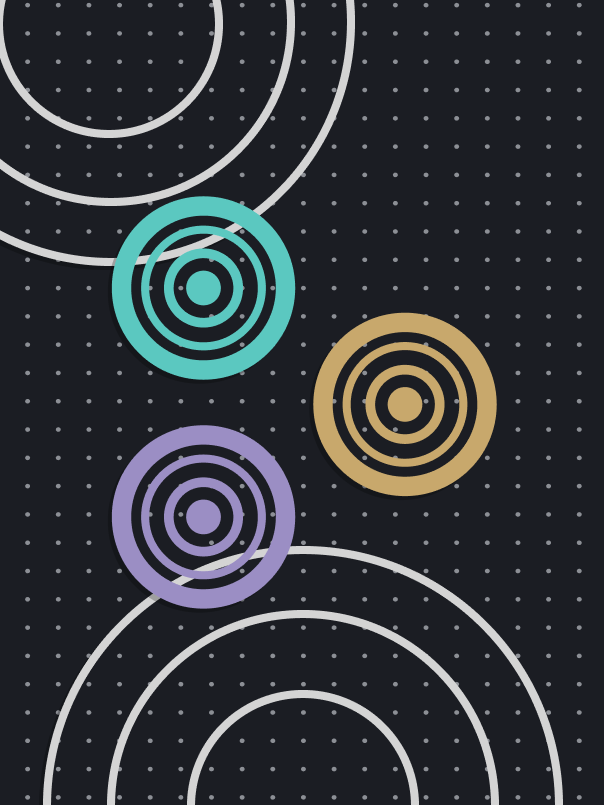
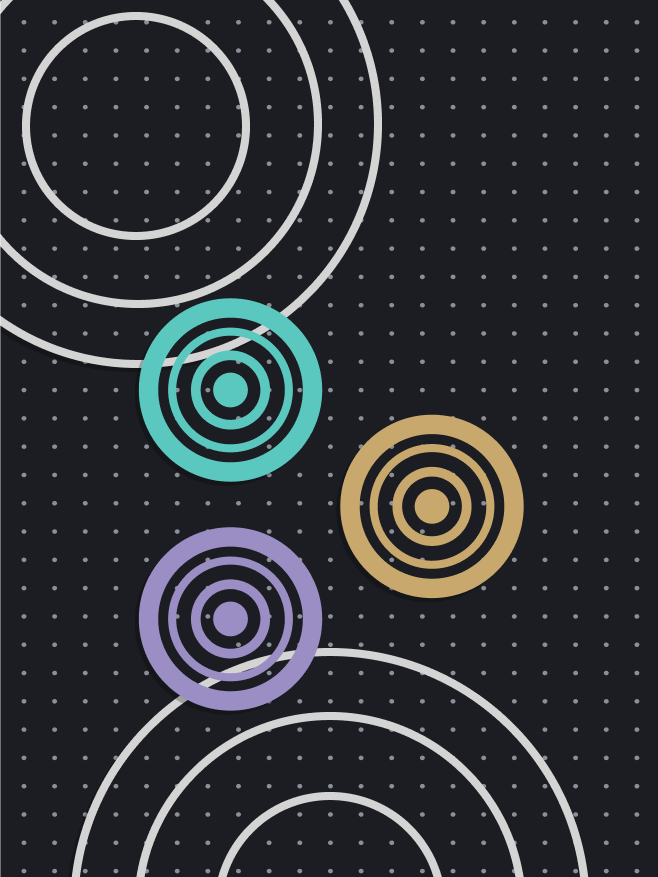
V2.3 detection zone, bigger labels, remove NEW label, delay before contact drawer

Changed region(s): [[0.0, 0.0, 0.9536, 1.0]]

diff --git a/hello/bundle.js b/hello/bundle.js
@@ -1,1 +1,1 @@
-(()=>{var e={574(e,a,t){const d=()=>{XR8.XrController.configure({imageTargetData:[t(478),t(664)]})};window.XR8?d():window.addEventListener("xrloaded",d)},664(e){"use strict";e.exports=JSON.parse('{"type":"PLANAR","properties":{"top":102,"left":27,"width":604,"height":805,"isRotated":true,"originalWidth":658,"originalHeight":1010},"imagePath":"image-targets/ARCard_VERSO_luminance.png","metadata":null,"name":"ARCard_VERSO","resources":{"originalImage":"ARCard_VERSO_original.png","croppedImage":"ARCard_VERSO_cropped.png","thumbnailImage":"ARCard_VERSO_thumbnail.png","luminanceImage":"ARCard_VERSO_luminance.png"},"created":1791211542279,"updated":1791211712874}')},478(e){"use strict";e.exports=JSON.parse('{"type":"PLANAR","properties":{"top":301,"left":64,"width":961,"height":1281,"isRotated":true,"originalWidth":1080,"originalHeight":1920},"imagePath":"image-targets/ImageTarget_testcard_luminance.png","metadata":null,"name":"ImageTarget_testcard","resources":{"originalImage":"ImageTarget_testcard_original.png","croppedImage":"ImageTarget_testcard_cropped.png","thumbnailImage":"ImageTarget_testcard_thumbnail.png","luminanceImage":"ImageTarget_testcard_luminance.png"},"created":1789055611617,"updated":1789055692241}')}},a={};function t(d){var o=a[d];if(void 0!==o)return o.exports;var n=a[d]={exports:{}};return e[d](n,n.exports,t),n.exports}(()=>{"use strict";t(574);const e=window.ecs,a=new Set,d=new Set;let o=!1;const n=e=>{o||d.has(e)||(d.add(e),console.log(`[platform-progress] ${d.size}/${a.size}`),d.size<a.size||(o=!0,window.dispatchEvent(new CustomEvent("ar-all-platforms-revealed"))))},r=(a,t)=>e.GltfModel.has(a,t)&&!!e.GltfModel.get(a,t).animationClip;e.registerComponent({name:"disc-reveal",schema:{},add:(t,d)=>{const o=d.eid;console.log("[disc-reveal] initialized, eid:",o),(e=>{a.add(e)})(o);for(const a of t.getChildren(o))t.getEntity(a).hide(),r(t,a)&&e.GltfModel.mutate(t,a,e=>{e.paused=!0,e.time=0});let i=!1;t.events.addListener(o,e.input.SCREEN_TOUCH_START,()=>{if(!i){i=!0,console.log("[disc-reveal] tap on disc! showing children...");for(const a of t.getChildren(o))t.getEntity(a).show(),r(t,a)&&(console.log("[disc-reveal] playing animation on",a),e.GltfModel.mutate(t,a,e=>{e.time=0,e.paused=!1}));n(o)}})}});let i=!1;e.registerBehavior(a=>{if(i)return;i=!0;const t=e=>a=>{console.log(`[target-events] ${e}`,a?.data?.name),window.dispatchEvent(new CustomEvent(e,{detail:a?.data?.name}))};a.events.addListener(a.events.globalId,e.events.REALITY_IMAGE_FOUND,t("ar-image-found")),a.events.addListener(a.events.globalId,e.events.REALITY_IMAGE_LOST,t("ar-image-lost"))});const c=JSON.parse('{"objects":{"47699d9e-18a5-4f88-a4f9-b8be92e8f74a":{"components":{},"geometry":null,"id":"47699d9e-18a5-4f88-a4f9-b8be92e8f74a","light":{"type":"ambient","intensity":1},"material":null,"name":"Ambient Light","position":[10,5,5],"rotation":[0,0,0,1],"scale":[1,1,1],"parentId":"88453035-dc0f-486d-868a-8ff7c2fda864","order":0.4038940050501252},"a608ddd9-9379-464d-966f-5d8d8674c83c":{"camera":{"type":"perspective","xr":{"desktop":"disabled","xrCameraType":"world","headset":"disabled","phone":"AR","world":{"disableWorldTracking":false}}},"components":{},"geometry":null,"id":"a608ddd9-9379-464d-966f-5d8d8674c83c","material":null,"name":"Camera","position":[0,0.9018198838289004,0.741421885372211],"rotation":[0.00044368872331410124,0.9659425615285845,-0.25875089860082223,0.0016563336561801576],"scale":[1,1,1],"parentId":"88453035-dc0f-486d-868a-8ff7c2fda864","order":1.0308214152219775},"ac1989e3-3b71-49e2-a05f-e682aeb18c36":{"components":{},"geometry":null,"id":"ac1989e3-3b71-49e2-a05f-e682aeb18c36","light":{"intensity":1,"type":"spot"},"material":null,"name":"Directional Light","position":[20,50,10],"rotation":[0,0,0,1],"scale":[1,1,1],"parentId":"88453035-dc0f-486d-868a-8ff7c2fda864","order":0.6644431107322474,"disabled":true},"1e91f161-0d44-46aa-9293-a99c9fda4cfc":{"id":"1e91f161-0d44-46aa-9293-a99c9fda4cfc","position":[0,0,0],"rotation":[-4.329780281177466e-17,-0.7071067811865476,-0.7071067811865475,4.329780281177467e-17],"scale":[1,1,1],"geometry":null,"material":null,"parentId":"88453035-dc0f-486d-868a-8ff7c2fda864","components":{},"name":"Cible d\'image - 3DPrint","imageTarget":{"name":"ImageTarget_testcard"},"order":2.139191317678198,"hidden":false},"4e882f92-0a55-4250-a554-bdc9d028fc68":{"id":"4e882f92-0a55-4250-a554-bdc9d028fc68","position":[2.5739045355386666e-17,0.1,0.01],"rotation":[0.7071064131106127,-0.0007214830860009518,-0.0007214830860009522,0.7071064131106128],"scale":[0.2,0.2,0.2],"geometry":{"type":"cylinder","radius":0.5,"height":0.1},"material":{"type":"basic","color":"#1b1d23","opacity":0.8,"textureFiltering":"smooth","wireframe":false,"forceTransparent":true},"parentId":"b3f82157-f0da-41bf-ac67-f4bf3baba688","components":{"afa9b0a0-345d-418d-949d-bfbceaa96d0b":{"id":"afa9b0a0-345d-418d-949d-bfbceaa96d0b","name":"disc-reveal"}},"name":"Trigger (1)","order":1.4353339455249472,"hidden":false},"fc3fc9c0-f57e-41b2-9dac-1f4b7624e730":{"id":"fc3fc9c0-f57e-41b2-9dac-1f4b7624e730","position":[0.11,-0.1,0.01],"rotation":[0.7071064131106127,-0.0007214830860009519,-0.0007214830860009521,0.7071064131106128],"scale":[0.2,0.2,0.2],"geometry":{"type":"cylinder","radius":0.5,"height":0.1},"material":{"type":"basic","color":"#1b1d23","opacity":0.8,"textureFiltering":"smooth","wireframe":false,"forceTransparent":true},"components":{"da07d809-ab1e-4e86-ae96-ef33dfc8a491":{"id":"da07d809-ab1e-4e86-ae96-ef33dfc8a491","name":"disc-reveal"}},"name":"Trigger (2)","order":1.467188959197176,"parentId":"b3f82157-f0da-41bf-ac67-f4bf3baba688","hidden":false},"9c71edb4-7bd2-4942-8296-321c42876638":{"id":"9c71edb4-7bd2-4942-8296-321c42876638","position":[-0.11,-0.1,0.01],"rotation":[0.7071064131106127,-0.0007214830860009519,-0.0007214830860009521,0.7071064131106128],"scale":[0.2,0.2,0.2],"geometry":{"type":"cylinder","radius":0.5,"height":0.1},"material":{"type":"basic","color":"#1b1d23","opacity":0.8,"textureFiltering":"smooth","wireframe":false,"forceTransparent":true},"components":{"dc609c84-8091-415e-a3cf-2af6a70112c2":{"id":"dc609c84-8091-415e-a3cf-2af6a70112c2","name":"disc-reveal"}},"name":"Trigger (3)","order":1.4990439728694045,"parentId":"b3f82157-f0da-41bf-ac67-f4bf3baba688"},"4612ef91-a58b-46df-8c86-804473df6b57":{"id":"4612ef91-a58b-46df-8c86-804473df6b57","position":[-6.505213034913027e-19,1.3049827036510977,-1.1102230246251565e-16],"rotation":[-0.7071064131106127,0.0007214830860009518,0.0007214830860009522,0.7071064131106128],"scale":[1,1,0.9999999999999998],"geometry":null,"material":null,"parentId":"4e882f92-0a55-4250-a554-bdc9d028fc68","components":{},"ui":{"background":"#000000","backgroundOpacity":0.5,"width":100,"height":25,"text":"Atelier Vision & Acculturation","color":"#c8a86c","fontSize":8,"type":"3d","font":{"type":"font","font":"Futura"},"verticalTextAlign":"center","borderRadius":5},"name":"Label","order":1.37162391818049,"hidden":false},"cf2ccdf3-25dc-4d7c-97e2-46d6871c7f46":{"id":"cf2ccdf3-25dc-4d7c-97e2-46d6871c7f46","position":[0,1.3049827036510977,-2.220446049250313e-16],"rotation":[-0.7071064131106127,0.0007214830860009518,0.0007214830860009522,0.7071064131106128],"scale":[1,1,0.9999999999999998],"geometry":null,"material":null,"parentId":"9c71edb4-7bd2-4942-8296-321c42876638","components":{},"ui":{"background":"#000000","backgroundOpacity":0.5,"width":100,"height":25,"text":"Prototypage & Developpement","color":"#5bc8c0","fontSize":8,"type":"3d","font":{"type":"font","font":"Futura"},"verticalTextAlign":"center","borderRadius":5},"name":"Label","order":1.339768904508261,"hidden":false},"e05ebec9-e43a-43bc-9f27-f5a3d796dede":{"id":"e05ebec9-e43a-43bc-9f27-f5a3d796dede","position":[0,1.3049827036510977,-1.1102230246251565e-16],"rotation":[-0.7071064131106127,0.0007214830860009518,0.0007214830860009522,0.7071064131106128],"scale":[1,1,0.9999999999999998],"geometry":null,"material":null,"parentId":"fc3fc9c0-f57e-41b2-9dac-1f4b7624e730","components":{},"ui":{"background":"#000000","backgroundOpacity":0.5,"width":100,"height":25,"text":"Direction de Projet Innovation","color":"#9b8ec4","fontSize":8,"type":"3d","font":{"type":"font","font":"Futura"},"verticalTextAlign":"center","borderRadius":5},"name":"Label","order":1.4034789318527185,"hidden":false},"ae7270a2-51af-4bb4-9383-0168b21f7a7a":{"id":"ae7270a2-51af-4bb4-9383-0168b21f7a7a","position":[0,0,0],"rotation":[0,0,0,1],"scale":[1,1,1],"geometry":null,"material":null,"parentId":"88453035-dc0f-486d-868a-8ff7c2fda864","components":{},"ui":{"width":100,"height":100,"text":"V2.2 - Labels repositioned","color":"#ffffff","fontSize":12,"type":"overlay"},"name":"Version#","order":3.733576123742947,"hidden":false},"08453781-f911-48a4-9f50-e968d7f330b0":{"id":"08453781-f911-48a4-9f50-e968d7f330b0","position":[0,0,0],"rotation":[-0.0007214830860009088,0.7071064131106128,0.7071064131106127,0.000721483086000909],"scale":[0.46435666458094,0.5232044512818127,0.756394528108489],"geometry":null,"material":null,"components":{},"name":"Plateformes","order":1.1065764966008638,"prefab":true},"41e53f59-548c-462f-8c60-fcbaebd6a2ee":{"id":"41e53f59-548c-462f-8c60-fcbaebd6a2ee","position":[-0.00020406570192826518,4.1642984118894625e-7,0.15],"rotation":[-2.7755474480787716e-17,-3.843301994533535e-19,-0.0010203311652453408,0.9999994794620212],"scale":[0.3,0.3,0.3],"geometry":null,"material":null,"components":{},"ui":{"background":"#000000","backgroundOpacity":0.5,"width":125,"height":50,"text":"3D PRINT","color":"#ffffff","fontSize":20,"type":"3d","font":{"type":"font","font":"Futura"},"verticalTextAlign":"center","borderRadius":10},"name":"Label (5)","order":1.5308989865416334,"hidden":false,"parentId":"1e91f161-0d44-46aa-9293-a99c9fda4cfc"},"e76c215b-8268-4c5c-835b-cc4fbcb05977":{"id":"e76c215b-8268-4c5c-835b-cc4fbcb05977","position":[0,0,0],"rotation":[-4.329780281177466e-17,-0.7071067811865476,-0.7071067811865475,4.329780281177467e-17],"scale":[1,1,1],"geometry":null,"material":null,"parentId":"88453035-dc0f-486d-868a-8ff7c2fda864","components":{},"name":"Cible d\'image - ARCard_VERSO","imageTarget":{"name":"ARCard_VERSO"},"order":2.9363837207105723},"a24a0469-adc0-4039-a5d6-6cfe22cefa91":{"id":"a24a0469-adc0-4039-a5d6-6cfe22cefa91","position":[-0.00020406570192826518,4.1642984118894625e-7,0.15],"rotation":[-2.7755474480787725e-17,-2.216997889252226e-19,-0.0010203311652453408,0.9999994794620212],"scale":[0.3,0.3,0.3],"geometry":null,"material":null,"components":{},"ui":{"background":"#000000","backgroundOpacity":0.5,"width":125,"height":50,"text":"NEW","color":"#ffffff","fontSize":20,"type":"3d","font":{"type":"font","font":"Futura"},"verticalTextAlign":"center","borderRadius":10},"name":"Label (6)","order":5.192247136747563,"hidden":true,"parentId":"e76c215b-8268-4c5c-835b-cc4fbcb05977"},"b3f82157-f0da-41bf-ac67-f4bf3baba688":{"id":"b3f82157-f0da-41bf-ac67-f4bf3baba688","position":[0,0,0],"rotation":[0,0,0,1],"scale":[1,1,1],"geometry":null,"material":null,"parentId":"e76c215b-8268-4c5c-835b-cc4fbcb05977","components":{},"name":"Platforms","order":6.29605608988081},"2c329eb9-b061-4969-ab10-d801c3a5e5e2":{"id":"2c329eb9-b061-4969-ab10-d801c3a5e5e2","position":[-0.696,0.27922566715248653,0.6732367017918449],"rotation":[4.862951781367334e-33,2.168404344971009e-19,-7.619062541745432e-40,1],"scale":[1,0.9999999999999999,1],"geometry":null,"material":null,"parentId":"9c71edb4-7bd2-4942-8296-321c42876638","components":{},"gltfModel":{"src":{"type":"asset","asset":"assets/offer_cyan.glb"},"animationClip":"Apparition","loop":false},"name":"offer_cyan.glb","order":3.052799881768221},"dd2bf315-b944-4e89-a6af-2e5f33506d35":{"id":"dd2bf315-b944-4e89-a6af-2e5f33506d35","position":[-0.0019414909530885243,0.2792256671524864,-0.9514008722657956],"rotation":[-2.931322977179984e-37,0,-3.206777099022595e-36,1],"scale":[1,0.9999999999999998,1],"geometry":null,"material":null,"parentId":"4e882f92-0a55-4250-a554-bdc9d028fc68","components":{},"gltfModel":{"src":{"type":"asset","asset":"assets/offer_ocre.glb"},"animationClip":"Apparition","loop":false},"name":"offer_ocre.glb","order":2.7767414516934634},"69f6e4f1-aeba-4ab1-b8da-53380b1dcd41":{"id":"69f6e4f1-aeba-4ab1-b8da-53380b1dcd41","position":[0.6960428311506335,0.27922566715248653,0.6718191147580082],"rotation":[1.2171110663614748e-37,0,4.961172540547777e-36,1],"scale":[1,0.9999999999999998,1],"geometry":null,"material":null,"parentId":"fc3fc9c0-f57e-41b2-9dac-1f4b7624e730","components":{},"gltfModel":{"src":{"type":"asset","asset":"assets/offer_violet.glb"},"animationClip":"Apparition","loop":false,"repetitions":1},"name":"offer_violet.glb","order":2.4577946562339203}},"spaces":{"88453035-dc0f-486d-868a-8ff7c2fda864":{"id":"88453035-dc0f-486d-868a-8ff7c2fda864","name":"Default Space","activeCamera":"a608ddd9-9379-464d-966f-5d8d8674c83c"}},"entrySpaceId":"88453035-dc0f-486d-868a-8ff7c2fda864"}');delete c.history,delete c.historyVersion,window.ecs.application.init(c)})()})();
+(()=>{var e={574(e,a,t){const d=()=>{XR8.XrController.configure({imageTargetData:[t(478),t(664)]})};window.XR8?d():window.addEventListener("xrloaded",d)},664(e){"use strict";e.exports=JSON.parse('{"type":"PLANAR","properties":{"top":0,"left":0,"width":658,"height":877,"isRotated":true,"originalWidth":658,"originalHeight":1010},"imagePath":"image-targets/ARCard_VERSO_luminance.png","metadata":null,"name":"ARCard_VERSO","resources":{"originalImage":"ARCard_VERSO_original.png","croppedImage":"ARCard_VERSO_cropped.png","thumbnailImage":"ARCard_VERSO_thumbnail.png","luminanceImage":"ARCard_VERSO_luminance.png"},"created":1791889770858,"updated":1791889874712}')},478(e){"use strict";e.exports=JSON.parse('{"type":"PLANAR","properties":{"top":301,"left":64,"width":961,"height":1281,"isRotated":true,"originalWidth":1080,"originalHeight":1920},"imagePath":"image-targets/ImageTarget_testcard_luminance.png","metadata":null,"name":"ImageTarget_testcard","resources":{"originalImage":"ImageTarget_testcard_original.png","croppedImage":"ImageTarget_testcard_cropped.png","thumbnailImage":"ImageTarget_testcard_thumbnail.png","luminanceImage":"ImageTarget_testcard_luminance.png"},"created":1789055611617,"updated":1789055692241}')}},a={};function t(d){var o=a[d];if(void 0!==o)return o.exports;var n=a[d]={exports:{}};return e[d](n,n.exports,t),n.exports}(()=>{"use strict";t(574);const e=window.ecs,a=new Set,d=new Set;let o=!1;const n=e=>{o||d.has(e)||(d.add(e),console.log(`[platform-progress] ${d.size}/${a.size}`),d.size<a.size||(o=!0,window.dispatchEvent(new CustomEvent("ar-all-platforms-revealed"))))},i=(a,t)=>e.GltfModel.has(a,t)&&!!e.GltfModel.get(a,t).animationClip;e.registerComponent({name:"disc-reveal",schema:{},add:(t,d)=>{const o=d.eid;console.log("[disc-reveal] initialized, eid:",o),(e=>{a.add(e)})(o);for(const a of t.getChildren(o))t.getEntity(a).hide(),i(t,a)&&e.GltfModel.mutate(t,a,e=>{e.paused=!0,e.time=0});let r=!1;t.events.addListener(o,e.input.SCREEN_TOUCH_START,()=>{if(!r){r=!0,console.log("[disc-reveal] tap on disc! showing children...");for(const a of t.getChildren(o))t.getEntity(a).show(),i(t,a)&&(console.log("[disc-reveal] playing animation on",a),e.GltfModel.mutate(t,a,e=>{e.time=0,e.paused=!1}));n(o)}})}});let r=!1;e.registerBehavior(a=>{if(r)return;r=!0;const t=e=>a=>{console.log(`[target-events] ${e}`,a?.data?.name),window.dispatchEvent(new CustomEvent(e,{detail:a?.data?.name}))};a.events.addListener(a.events.globalId,e.events.REALITY_IMAGE_FOUND,t("ar-image-found")),a.events.addListener(a.events.globalId,e.events.REALITY_IMAGE_LOST,t("ar-image-lost"))});const c=JSON.parse('{"objects":{"47699d9e-18a5-4f88-a4f9-b8be92e8f74a":{"components":{},"geometry":null,"id":"47699d9e-18a5-4f88-a4f9-b8be92e8f74a","light":{"type":"ambient","intensity":1},"material":null,"name":"Ambient Light","position":[10,5,5],"rotation":[0,0,0,1],"scale":[1,1,1],"parentId":"88453035-dc0f-486d-868a-8ff7c2fda864","order":0.4038940050501252},"a608ddd9-9379-464d-966f-5d8d8674c83c":{"camera":{"type":"perspective","xr":{"desktop":"disabled","xrCameraType":"world","headset":"disabled","phone":"AR","world":{"disableWorldTracking":false}}},"components":{},"geometry":null,"id":"a608ddd9-9379-464d-966f-5d8d8674c83c","material":null,"name":"Camera","position":[0,0.9018198838289004,0.741421885372211],"rotation":[0.00044368872331410124,0.9659425615285845,-0.25875089860082223,0.0016563336561801576],"scale":[1,1,1],"parentId":"88453035-dc0f-486d-868a-8ff7c2fda864","order":1.0308214152219775},"ac1989e3-3b71-49e2-a05f-e682aeb18c36":{"components":{},"geometry":null,"id":"ac1989e3-3b71-49e2-a05f-e682aeb18c36","light":{"intensity":1,"type":"spot"},"material":null,"name":"Directional Light","position":[20,50,10],"rotation":[0,0,0,1],"scale":[1,1,1],"parentId":"88453035-dc0f-486d-868a-8ff7c2fda864","order":0.6644431107322474,"disabled":true},"1e91f161-0d44-46aa-9293-a99c9fda4cfc":{"id":"1e91f161-0d44-46aa-9293-a99c9fda4cfc","position":[0,0,0],"rotation":[-4.329780281177466e-17,-0.7071067811865476,-0.7071067811865475,4.329780281177467e-17],"scale":[1,1,1],"geometry":null,"material":null,"parentId":"88453035-dc0f-486d-868a-8ff7c2fda864","components":{},"name":"Cible d\'image - 3DPrint","imageTarget":{"name":"ImageTarget_testcard"},"order":2.139191317678198,"hidden":false},"4e882f92-0a55-4250-a554-bdc9d028fc68":{"id":"4e882f92-0a55-4250-a554-bdc9d028fc68","position":[2.5739045355386666e-17,0.1,0.01],"rotation":[0.7071064131106127,-0.0007214830860009518,-0.0007214830860009522,0.7071064131106128],"scale":[0.2,0.2,0.2],"geometry":{"type":"cylinder","radius":0.5,"height":0.1},"material":{"type":"basic","color":"#1b1d23","opacity":0.8,"textureFiltering":"smooth","wireframe":false,"forceTransparent":true},"parentId":"b3f82157-f0da-41bf-ac67-f4bf3baba688","components":{"afa9b0a0-345d-418d-949d-bfbceaa96d0b":{"id":"afa9b0a0-345d-418d-949d-bfbceaa96d0b","name":"disc-reveal"}},"name":"Trigger (1)","order":1.4353339455249472,"hidden":false},"fc3fc9c0-f57e-41b2-9dac-1f4b7624e730":{"id":"fc3fc9c0-f57e-41b2-9dac-1f4b7624e730","position":[0.11,-0.1,0.01],"rotation":[0.7071064131106127,-0.0007214830860009519,-0.0007214830860009521,0.7071064131106128],"scale":[0.2,0.2,0.2],"geometry":{"type":"cylinder","radius":0.5,"height":0.1},"material":{"type":"basic","color":"#1b1d23","opacity":0.8,"textureFiltering":"smooth","wireframe":false,"forceTransparent":true},"components":{"da07d809-ab1e-4e86-ae96-ef33dfc8a491":{"id":"da07d809-ab1e-4e86-ae96-ef33dfc8a491","name":"disc-reveal"}},"name":"Trigger (2)","order":1.467188959197176,"parentId":"b3f82157-f0da-41bf-ac67-f4bf3baba688","hidden":false},"9c71edb4-7bd2-4942-8296-321c42876638":{"id":"9c71edb4-7bd2-4942-8296-321c42876638","position":[-0.11,-0.1,0.01],"rotation":[0.7071064131106127,-0.0007214830860009519,-0.0007214830860009521,0.7071064131106128],"scale":[0.2,0.2,0.2],"geometry":{"type":"cylinder","radius":0.5,"height":0.1},"material":{"type":"basic","color":"#1b1d23","opacity":0.8,"textureFiltering":"smooth","wireframe":false,"forceTransparent":true},"components":{"dc609c84-8091-415e-a3cf-2af6a70112c2":{"id":"dc609c84-8091-415e-a3cf-2af6a70112c2","name":"disc-reveal"}},"name":"Trigger (3)","order":1.4990439728694045,"parentId":"b3f82157-f0da-41bf-ac67-f4bf3baba688"},"4612ef91-a58b-46df-8c86-804473df6b57":{"id":"4612ef91-a58b-46df-8c86-804473df6b57","position":[-6.505213034913027e-19,1.3049827036510977,-1.1102230246251565e-16],"rotation":[-0.7071064131106127,0.0007214830860009518,0.0007214830860009522,0.7071064131106128],"scale":[1,1,0.9999999999999998],"geometry":null,"material":null,"parentId":"4e882f92-0a55-4250-a554-bdc9d028fc68","components":{},"ui":{"background":"#000000","backgroundOpacity":0.5,"width":150,"height":35,"text":"Atelier Vision & Acculturation","color":"#c8a86c","fontSize":12,"type":"3d","font":{"type":"font","font":"Futura"},"verticalTextAlign":"center","borderRadius":5},"name":"Label","order":1.37162391818049,"hidden":false},"cf2ccdf3-25dc-4d7c-97e2-46d6871c7f46":{"id":"cf2ccdf3-25dc-4d7c-97e2-46d6871c7f46","position":[0,1.3049827036510977,-2.220446049250313e-16],"rotation":[-0.7071064131106127,0.0007214830860009518,0.0007214830860009522,0.7071064131106128],"scale":[1,1,0.9999999999999998],"geometry":null,"material":null,"parentId":"9c71edb4-7bd2-4942-8296-321c42876638","components":{},"ui":{"background":"#000000","backgroundOpacity":0.5,"width":150,"height":35,"text":"Prototypage & Developpement","color":"#5bc8c0","fontSize":12,"type":"3d","font":{"type":"font","font":"Futura"},"verticalTextAlign":"center","borderRadius":5},"name":"Label","order":1.339768904508261,"hidden":false},"e05ebec9-e43a-43bc-9f27-f5a3d796dede":{"id":"e05ebec9-e43a-43bc-9f27-f5a3d796dede","position":[0,1.3049827036510977,-1.1102230246251565e-16],"rotation":[-0.7071064131106127,0.0007214830860009518,0.0007214830860009522,0.7071064131106128],"scale":[1,1,0.9999999999999998],"geometry":null,"material":null,"parentId":"fc3fc9c0-f57e-41b2-9dac-1f4b7624e730","components":{},"ui":{"background":"#000000","backgroundOpacity":0.5,"width":150,"height":35,"text":"Direction de Projet Innovation","color":"#9b8ec4","fontSize":12,"type":"3d","font":{"type":"font","font":"Futura"},"verticalTextAlign":"center","borderRadius":5},"name":"Label","order":1.4034789318527185,"hidden":false},"ae7270a2-51af-4bb4-9383-0168b21f7a7a":{"id":"ae7270a2-51af-4bb4-9383-0168b21f7a7a","position":[0,0,0],"rotation":[0,0,0,1],"scale":[1,1,1],"geometry":null,"material":null,"parentId":"88453035-dc0f-486d-868a-8ff7c2fda864","components":{},"ui":{"width":100,"height":100,"text":"V2.3 - Detection zone","color":"#ffffff","fontSize":12,"type":"overlay"},"name":"Version#","order":3.733576123742947,"hidden":false},"08453781-f911-48a4-9f50-e968d7f330b0":{"id":"08453781-f911-48a4-9f50-e968d7f330b0","position":[0,0,0],"rotation":[-0.0007214830860009088,0.7071064131106128,0.7071064131106127,0.000721483086000909],"scale":[0.46435666458094,0.5232044512818127,0.756394528108489],"geometry":null,"material":null,"components":{},"name":"Plateformes","order":1.1065764966008638,"prefab":true},"41e53f59-548c-462f-8c60-fcbaebd6a2ee":{"id":"41e53f59-548c-462f-8c60-fcbaebd6a2ee","position":[-0.00020406570192826518,4.1642984118894625e-7,0.15],"rotation":[-2.7755474480787716e-17,-3.843301994533535e-19,-0.0010203311652453408,0.9999994794620212],"scale":[0.3,0.3,0.3],"geometry":null,"material":null,"components":{},"ui":{"background":"#000000","backgroundOpacity":0.5,"width":125,"height":50,"text":"3D PRINT","color":"#ffffff","fontSize":20,"type":"3d","font":{"type":"font","font":"Futura"},"verticalTextAlign":"center","borderRadius":10},"name":"Label (5)","order":1.5308989865416334,"hidden":false,"parentId":"1e91f161-0d44-46aa-9293-a99c9fda4cfc"},"e76c215b-8268-4c5c-835b-cc4fbcb05977":{"id":"e76c215b-8268-4c5c-835b-cc4fbcb05977","position":[0,0,0],"rotation":[-4.329780281177466e-17,-0.7071067811865476,-0.7071067811865475,4.329780281177467e-17],"scale":[1,1,1],"geometry":null,"material":null,"parentId":"88453035-dc0f-486d-868a-8ff7c2fda864","components":{},"name":"Cible d\'image - ARCard_VERSO","imageTarget":{"name":"ARCard_VERSO"},"order":2.9363837207105723},"b3f82157-f0da-41bf-ac67-f4bf3baba688":{"id":"b3f82157-f0da-41bf-ac67-f4bf3baba688","position":[0,0,0],"rotation":[0,0,0,1],"scale":[1,1,1],"geometry":null,"material":null,"parentId":"e76c215b-8268-4c5c-835b-cc4fbcb05977","components":{},"name":"Platforms","order":6.29605608988081},"2c329eb9-b061-4969-ab10-d801c3a5e5e2":{"id":"2c329eb9-b061-4969-ab10-d801c3a5e5e2","position":[-0.696,0.27922566715248653,0.6732367017918449],"rotation":[4.862951781367334e-33,2.168404344971009e-19,-7.619062541745432e-40,1],"scale":[1,0.9999999999999999,1],"geometry":null,"material":null,"parentId":"9c71edb4-7bd2-4942-8296-321c42876638","components":{},"gltfModel":{"src":{"type":"asset","asset":"assets/offer_cyan.glb"},"animationClip":"Apparition","loop":false},"name":"offer_cyan.glb","order":3.052799881768221},"dd2bf315-b944-4e89-a6af-2e5f33506d35":{"id":"dd2bf315-b944-4e89-a6af-2e5f33506d35","position":[-0.0019414909530885243,0.2792256671524864,-0.9514008722657956],"rotation":[-2.931322977179984e-37,0,-3.206777099022595e-36,1],"scale":[1,0.9999999999999998,1],"geometry":null,"material":null,"parentId":"4e882f92-0a55-4250-a554-bdc9d028fc68","components":{},"gltfModel":{"src":{"type":"asset","asset":"assets/offer_ocre.glb"},"animationClip":"Apparition","loop":false},"name":"offer_ocre.glb","order":2.7767414516934634},"69f6e4f1-aeba-4ab1-b8da-53380b1dcd41":{"id":"69f6e4f1-aeba-4ab1-b8da-53380b1dcd41","position":[0.6960428311506335,0.27922566715248653,0.6718191147580082],"rotation":[1.2171110663614748e-37,0,4.961172540547777e-36,1],"scale":[1,0.9999999999999998,1],"geometry":null,"material":null,"parentId":"fc3fc9c0-f57e-41b2-9dac-1f4b7624e730","components":{},"gltfModel":{"src":{"type":"asset","asset":"assets/offer_violet.glb"},"animationClip":"Apparition","loop":false,"repetitions":1},"name":"offer_violet.glb","order":2.4577946562339203}},"spaces":{"88453035-dc0f-486d-868a-8ff7c2fda864":{"id":"88453035-dc0f-486d-868a-8ff7c2fda864","name":"Default Space","activeCamera":"a608ddd9-9379-464d-966f-5d8d8674c83c"}},"entrySpaceId":"88453035-dc0f-486d-868a-8ff7c2fda864"}');delete c.history,delete c.historyVersion,window.ecs.application.init(c)})()})();

diff --git a/ardemo-studio/src/index.html b/ardemo-studio/src/index.html
@@ -256,7 +256,7 @@
     $('ar-contact-toggle').addEventListener('click', () => setContactOpen(!bottom.classList.contains('open')))
 
     // Opens by itself once every platform has been revealed (event sent by src/platform-progress.ts)
-    const CONTACT_AUTO_OPEN_DELAY = 3000
+    const CONTACT_AUTO_OPEN_DELAY = 6000
     window.addEventListener('ar-all-platforms-revealed', () => {
       setTimeout(() => setContactOpen(true), CONTACT_AUTO_OPEN_DELAY)
     }, {once: true})

diff --git a/hello/index.html b/hello/index.html
@@ -156,7 +156,7 @@
     $('ar-contact-toggle').addEventListener('click', () => setContactOpen(!bottom.classList.contains('open')))
 
     // Opens by itself once every platform has been revealed (event sent by src/platform-progress.ts)
-    const CONTACT_AUTO_OPEN_DELAY = 3000
+    const CONTACT_AUTO_OPEN_DELAY = 6000
     window.addEventListener('ar-all-platforms-revealed', () => {
       setTimeout(() => setContactOpen(true), CONTACT_AUTO_OPEN_DELAY)
     }, {once: true})
